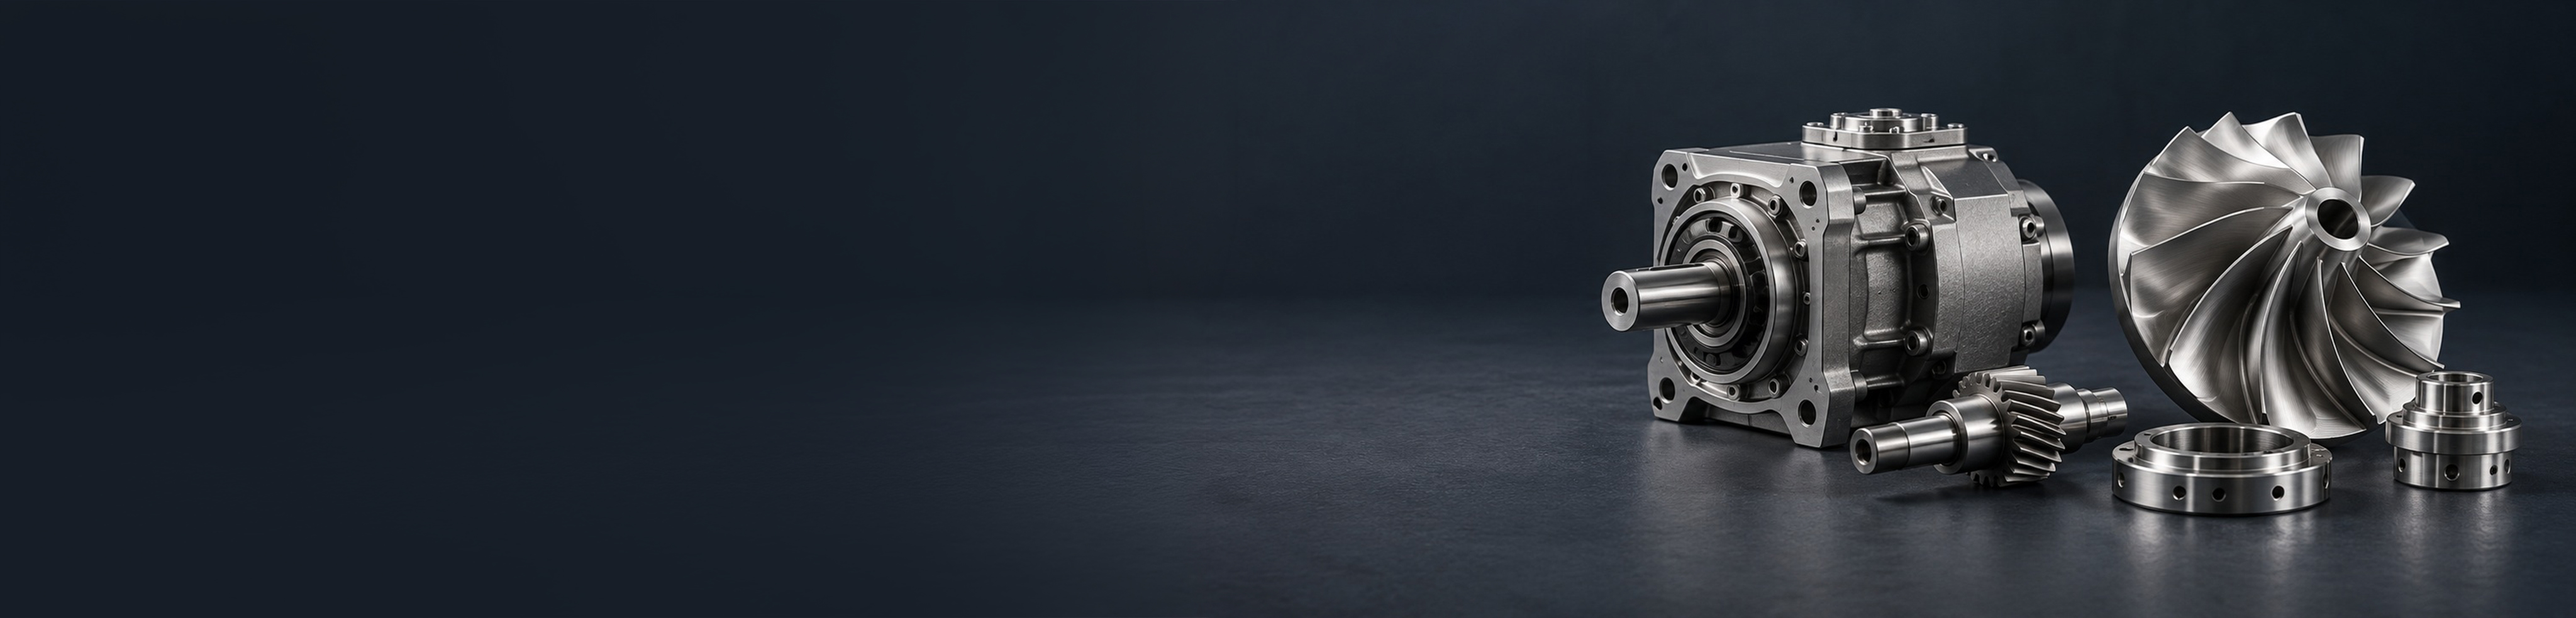
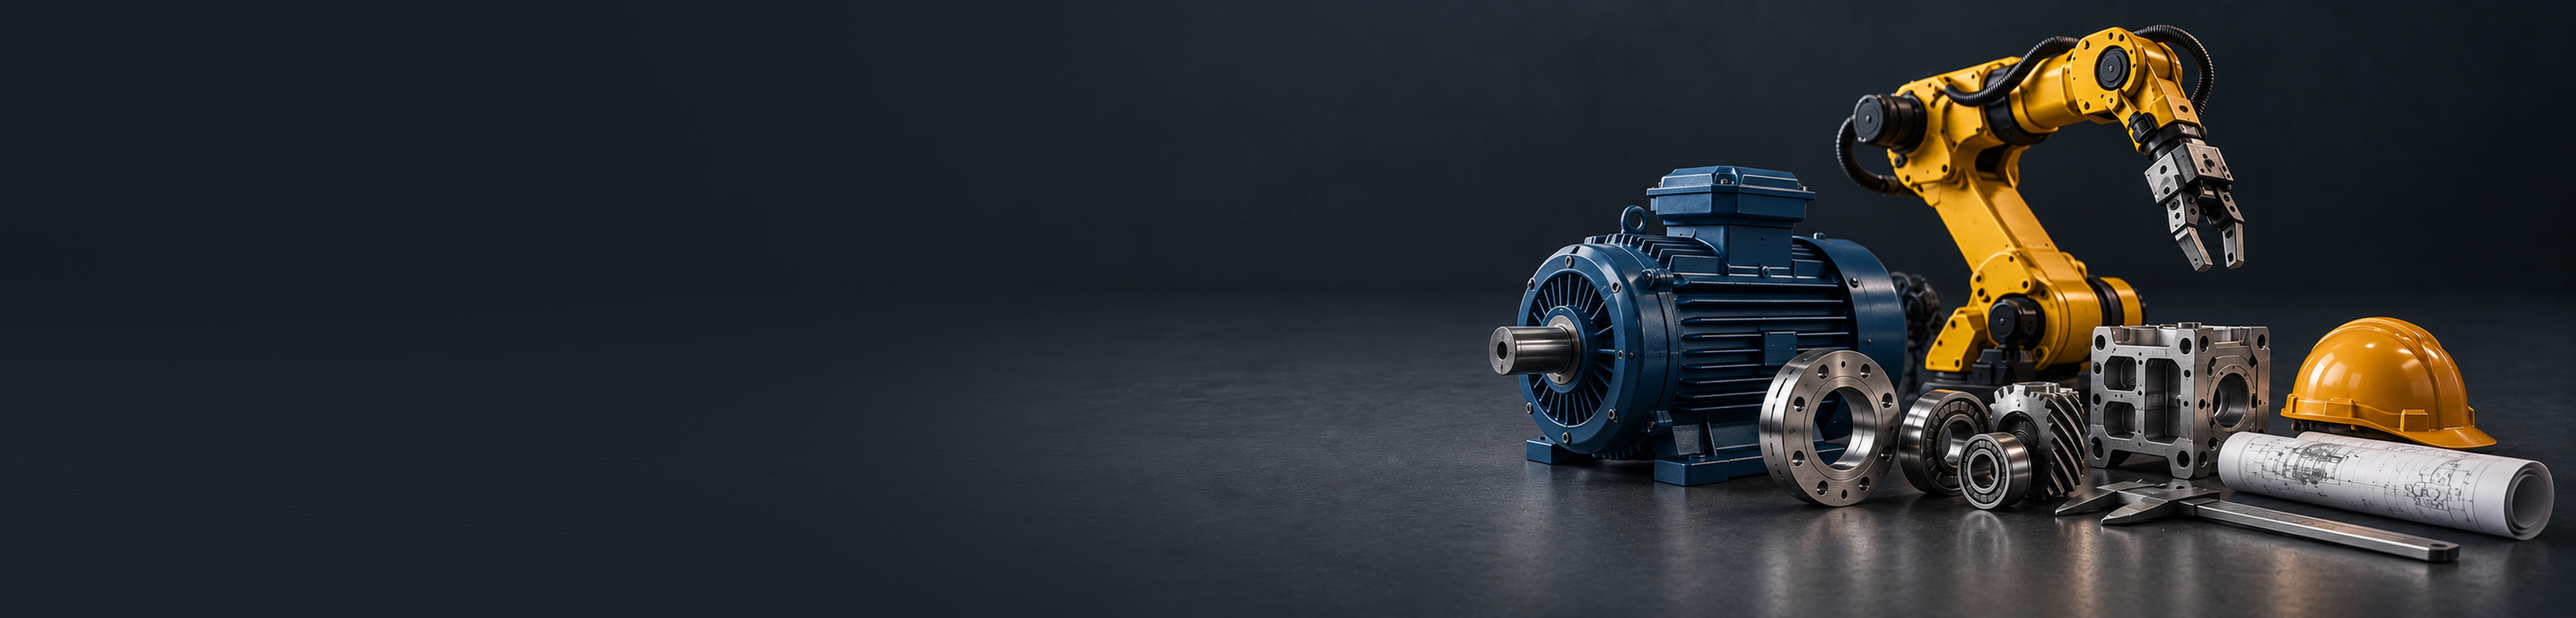
feat: refine navigation and product details UI

Changed region(s): [[0.5625, 0.0305, 1.0, 1.0]]

diff --git a/frontend/src/pages/Products/ProductDetailsPage.test.tsx b/frontend/src/pages/Products/ProductDetailsPage.test.tsx
@@ -17,7 +17,6 @@ import {
   testUser,
 } from '../../test/test-utils'
 import { useAuthStore } from '../../store/authStore'
-import { useToastStore } from '../../store/toastStore'
 import type { PublicProductDetail } from '../../types/product'
 import { ProductDetailsPage } from './ProductDetailsPage'
 import { Toaster } from '../../components/ui/Toaster'
@@ -270,7 +269,7 @@ describe('ProductDetailsPage', () => {
     expect(productsApi.getPublicProduct).toHaveBeenCalledWith('cyberpunk-drone-3d')
     expect(screen.getByText(/standard license/i)).toBeInTheDocument()
     expect(screen.getByText(/-20%/i)).toBeInTheDocument()
-    expect(screen.getByText(/futuristic sci-fi drone asset/i)).toBeInTheDocument()
+    expect(screen.queryByText(/futuristic sci-fi drone asset/i)).not.toBeInTheDocument()
     expect(screen.getByRole('heading', { name: /technical specs/i })).toBeInTheDocument()
     expect(screen.getByText(/^polygons$/i)).toBeInTheDocument()
     expect(screen.getByText('12,000')).toBeInTheDocument()
@@ -426,7 +425,7 @@ describe('ProductDetailsPage', () => {
       screen.getByRole('button', { name: /sign in to add .+ to wishlist/i }),
     ).toBeInTheDocument()
     expect(screen.getByRole('button', { name: /sign in to buy/i })).toBeInTheDocument()
-    expect(screen.getByRole('button', { name: /share link for/i })).toBeEnabled()
+    expect(screen.queryByRole('button', { name: /share link for/i })).not.toBeInTheDocument()
   })
 
   it('shows working add-to-cart and wishlist controls for authenticated users', async () => {
@@ -622,13 +621,7 @@ describe('ProductDetailsPage', () => {
     })
   })
 
-  it('copies the share link and excludes package storage paths from the document', async () => {
-    const writeText = vi.fn().mockResolvedValue(undefined)
-    Object.defineProperty(navigator, 'clipboard', {
-      configurable: true,
-      value: { writeText },
-    })
-
+  it('hides the share control and short summary and excludes package storage paths', async () => {
     renderProductDetails()
 
     await waitFor(() => {
@@ -637,13 +630,8 @@ describe('ProductDetailsPage', () => {
       ).toBeInTheDocument()
     })
 
-    await userEvent.click(screen.getByRole('button', { name: /share link for/i }))
-
-    await waitFor(() => {
-      expect(writeText).toHaveBeenCalled()
-    })
-    expect(writeText.mock.calls[0]?.[0]).toContain('/products/cyberpunk-drone-3d')
-    expect(useToastStore.getState().toasts).toHaveLength(0)
+    expect(screen.queryByRole('button', { name: /share link for/i })).not.toBeInTheDocument()
+    expect(screen.queryByText('Futuristic sci-fi drone asset')).not.toBeInTheDocument()
 
     expect(document.body.textContent).not.toMatch(/storage_path/i)
     expect(document.body.innerHTML).not.toContain('secret.zip')

diff --git a/frontend/src/components/Navbar.tsx b/frontend/src/components/Navbar.tsx
@@ -206,8 +206,12 @@ export function Navbar() {
     ? (pluginCategoriesQuery.data?.results ?? [])
     : (productCategoriesQuery.data?.results ?? [])
 
-  // Keep Explore/search menus compact: top-level categories only.
+  // Keep Explore/search menus compact: top-level categories only, excluding
+  // the internal demo category from customer-facing navigation.
   const exploreCategories = categories.filter((category) => {
+    if (category.slug === 'demo-assets' || category.name.trim().toLowerCase() === 'demo assets') {
+      return false
+    }
     if ('parent' in category) {
       return category.parent == null
     }
@@ -547,19 +551,39 @@ export function Navbar() {
               >
                 Home
               </Link>
-              <Link className="navbar__link" to="/3d-models">
+              <Link
+                className={`navbar__link${isModelsRoute ? ' navbar__link--active' : ''}`}
+                to="/3d-models"
+                aria-current={isModelsRoute ? 'page' : undefined}
+              >
                 3D Model
               </Link>
-              <Link className="navbar__link" to="/plugins">
+              <Link
+                className={`navbar__link${isPluginsRoute ? ' navbar__link--active' : ''}`}
+                to="/plugins"
+                aria-current={isPluginsRoute ? 'page' : undefined}
+              >
                 Plugins
               </Link>
-              <Link className="navbar__link" to="/custom-projects">
+              <Link
+                className={`navbar__link${currentPath.startsWith('/custom-projects') ? ' navbar__link--active' : ''}`}
+                to="/custom-projects"
+                aria-current={currentPath.startsWith('/custom-projects') ? 'page' : undefined}
+              >
                 Custom Projects
               </Link>
-              <Link className="navbar__link" to="/about">
+              <Link
+                className={`navbar__link${currentPath === '/about' ? ' navbar__link--active' : ''}`}
+                to="/about"
+                aria-current={currentPath === '/about' ? 'page' : undefined}
+              >
                 About
               </Link>
-              <Link className="navbar__link" to="/contact">
+              <Link
+                className={`navbar__link${currentPath === '/contact' ? ' navbar__link--active' : ''}`}
+                to="/contact"
+                aria-current={currentPath === '/contact' ? 'page' : undefined}
+              >
                 Contact
               </Link>
             </div>

diff --git a/frontend/src/components/Navbar.test.tsx b/frontend/src/components/Navbar.test.tsx
@@ -169,6 +169,30 @@ describe('Navbar', () => {
     )
   })
 
+  it('hides Demo Assets from the Explore categories menu', async () => {
+    const user = userEvent.setup()
+    vi.mocked(categoriesApi.listPublicCategories).mockResolvedValue({
+      count: 1,
+      next: null,
+      previous: null,
+      results: [{
+        id: 'demo-assets-id',
+        name: 'Demo Assets',
+        slug: 'demo-assets',
+        description: '',
+        image: '',
+        parent: null,
+        created_at: '2026-09-08T00:00:00Z',
+      }],
+    })
+
+    renderNavbar('/home')
+    await user.hover(screen.getByRole('button', { name: /^explore/i }))
+    const menu = await screen.findByRole('menu', { name: /explore categories/i })
+
+    expect(within(menu).queryByRole('menuitem', { name: /demo assets/i })).not.toBeInTheDocument()
+  })
+
   it('shows Sign in and Register when logged out', () => {
     renderNavbar('/about')
 
@@ -185,6 +209,28 @@ describe('Navbar', () => {
     expect(screen.getByRole('link', { name: /^plugins$/i })).toHaveAttribute('href', '/plugins')
     expect(screen.queryByRole('link', { name: /dashboard/i })).not.toBeInTheDocument()
     expect(screen.queryByRole('button', { name: /sign out/i })).not.toBeInTheDocument()
+  })
+
+  it.each([
+    ['/3d-models', /^3d model$/i],
+    ['/plugins', /^plugins$/i],
+    ['/custom-projects', /^custom projects$/i],
+    ['/about', /^about$/i],
+    ['/contact', /^contact$/i],
+  ])('marks the matching navbar link active on %s', (path, linkName) => {
+    renderNavbar(path as string)
+    const activeLink = screen.getByRole('link', { name: linkName as RegExp })
+
+    expect(activeLink).toHaveClass('navbar__link--active')
+    expect(activeLink).toHaveAttribute('aria-current', 'page')
+    expect(document.querySelectorAll('.navbar__primary-links .navbar__link--active')).toHaveLength(1)
+  })
+
+  it('keeps the Home navbar link black on the Home page', () => {
+    renderNavbar('/home')
+
+    expect(screen.getByRole('link', { name: /^home$/i })).not.toHaveClass('navbar__link--active')
+    expect(document.querySelectorAll('.navbar__primary-links .navbar__link--active')).toHaveLength(0)
   })
 
   it('shows user menu with Dashboard, Profile, and Sign out when logged in', async () => {

diff --git a/frontend/src/styles/navbar.css b/frontend/src/styles/navbar.css
@@ -129,7 +129,7 @@
   max-width: calc(100vw - (2 * var(--site-gutter)));
   padding: 0.75rem 0.85rem;
   border: 1px solid rgba(120, 149, 166, 0.22);
-  border-radius: 0.75rem;
+  border-radius: 0;
   background:
     radial-gradient(circle at 88% 88%, rgba(255, 255, 255, 0.94), transparent 24%),
     linear-gradient(135deg, #f4f9fc 0%, #edf4f8 58%, #f8fbfd 100%);
@@ -166,22 +166,23 @@
 
 .navbar__explore-item:hover,
 .navbar__explore-item:focus-visible {
-  background: #dff2fc;
-  color: var(--text-main);
+  background: transparent;
+  color: #63b8e6;
 }
 
 .navbar__explore-icon,
 .navbar__explore-image {
   display: block;
   flex: 0 0 auto;
-  width: 1.25rem;
-  height: 1.25rem;
-  color: #7297aa;
+  width: 0.9rem;
+  height: 0.9rem;
+  color: #7f8b92;
 }
 
 .navbar__explore-item:hover .navbar__explore-icon,
 .navbar__explore-item:focus-visible .navbar__explore-icon {
-  filter: saturate(1.18);
+  color: #63b8e6;
+  filter: none;
 }
 
 .navbar__explore-image {
@@ -202,49 +203,6 @@
   font-size: 1.2rem;
   font-weight: 400;
   line-height: 0.8;
-}
-
-.navbar__explore-icon--all,
-.navbar__explore-icon--architectural-3d-models,
-.navbar__explore-icon--character,
-.navbar__explore-icon--interactive-webar,
-.navbar__explore-icon--electronics {
-  color: #77a9c1;
-}
-
-.navbar__explore-icon--demo-assets,
-.navbar__explore-icon--assets-props {
-  color: #8a9e9b;
-}
-
-.navbar__explore-icon--food-drink,
-.navbar__explore-icon--industrial {
-  color: #c99b57;
-}
-
-.navbar__explore-icon--household,
-.navbar__explore-icon--cloth-items,
-.navbar__explore-icon--furniture,
-.navbar__explore-icon--products {
-  color: #c99397;
-}
-
-.navbar__explore-icon--lifestyle-visualisation,
-.navbar__explore-icon--plants-vegetation,
-.navbar__explore-icon--3d-printing {
-  color: #78aa86;
-}
-
-.navbar__explore-icon--toys {
-  color: #8e87b4;
-}
-
-.navbar__explore-icon--interior-3d-models {
-  color: #a79d81;
-}
-
-.navbar__explore-icon--lights {
-  color: #c3a044;
 }
 
 .navbar__explore-status {
@@ -423,6 +381,10 @@ button.navbar__link {
 .navbar__link:hover {
   color: var(--action-color);
   text-decoration: none;
+}
+
+.navbar__link--active {
+  color: var(--action-color);
 }
 
 .navbar__link--muted {

diff --git a/frontend/src/styles/about.css b/frontend/src/styles/about.css
@@ -57,8 +57,10 @@
   stroke-linejoin: round;
 }
 
-/* Hero — same banner height/aspect as 3D Models and Plugins */
+/* Compact About banner */
 .about-hero.site-hero-banner {
+  --site-hero-aspect: 5 / 1;
+  max-height: 18rem;
   background-color: var(--border);
   color: var(--text-main);
 }
@@ -80,7 +82,7 @@
   width: 100%;
   max-width: none;
   margin: 0;
-  padding: clamp(1.75rem, 3vw, 2.75rem) var(--site-gutter);
+  padding: clamp(1.25rem, 2.25vw, 2rem) var(--site-gutter);
   box-sizing: border-box;
   text-align: left;
 }
@@ -100,7 +102,7 @@
 .about-hero__copy h1 {
   margin: 0 0 0.85rem;
   max-width: min(100%, 22ch);
-  font-size: clamp(1.6rem, 2.5vw, 2.25rem);
+  font-size: clamp(1.35rem, 2vw, 1.8rem);
   line-height: 1.15;
   letter-spacing: -0.03em;
   font-weight: 700;
@@ -110,7 +112,7 @@
 .about-hero__lead {
   margin: 0;
   max-width: min(100%, 42rem);
-  font-size: clamp(0.92rem, 1.4vw, 1.02rem);
+  font-size: clamp(0.82rem, 1.1vw, 0.92rem);
   font-weight: 400;
   line-height: 1.55;
   color: rgba(17, 24, 39, 0.82);
@@ -144,18 +146,23 @@
 
 .about-hero__stat dt {
   margin: 0;
-  font-size: clamp(1rem, 1.6vw, 1.15rem);
+  font-size: clamp(0.9rem, 1.25vw, 1rem);
   font-weight: 800;
   color: var(--text-main);
 }
 
 .about-hero__stat dd {
   margin: 0.15rem 0 0;
-  font-size: 0.75rem;
+  font-size: 0.68rem;
   color: var(--text-secondary);
 }
 
 @media (max-width: 720px) {
+  .about-hero.site-hero-banner {
+    --site-hero-aspect: 2.4 / 1;
+    max-height: 10rem;
+  }
+
   .about-hero__stats {
     display: none;
   }
@@ -172,11 +179,11 @@
 
   .about-hero__copy h1 {
     margin: 0 0 0.35rem;
-    font-size: clamp(1.25rem, 5.5vw, 1.65rem);
+    font-size: clamp(1.1rem, 4.8vw, 1.4rem);
   }
 
   .about-hero__lead {
-    font-size: 0.82rem;
+    font-size: 0.75rem;
     line-height: 1.4;
     display: -webkit-box;
     -webkit-box-orient: vertical;

diff --git a/frontend/src/components/commerce/CommerceCtaGroup.tsx b/frontend/src/components/commerce/CommerceCtaGroup.tsx
@@ -18,6 +18,7 @@ export interface CommerceCtaGroupProps {
   variant?: CommerceCtaVariant
   showWishlist?: boolean
   showCheckoutNote?: boolean
+  showShare?: boolean
 }
 
 export function CommerceCtaGroup({
@@ -28,6 +29,7 @@ export function CommerceCtaGroup({
   variant = 'stacked',
   showWishlist = false,
   showCheckoutNote = false,
+  showShare = true,
 }: CommerceCtaGroupProps) {
   const location = useLocation()
   const isAuthenticated = useAuthStore((state) => state.isAuthenticated)
@@ -77,7 +79,7 @@ export function CommerceCtaGroup({
     </AuthEntryButton>
   )
 
-  const shareControl = isBuybox ? (
+  const shareControl = !showShare ? null : isBuybox ? (
     <button
       type="button"
       className="product-detail-cta__share-link"

diff --git a/frontend/src/pages/Products/ProductDetailsPage.tsx b/frontend/src/pages/Products/ProductDetailsPage.tsx
@@ -190,9 +190,6 @@ function ProductDetailContent({ product }: { product: PublicProductDetail }) {
               />
             </div>
 
-            {product.short_description.trim() ? (
-              <p className="product-detail-purchase__summary">{product.short_description}</p>
-            ) : null}
           </div>
         </aside>
       </div>

diff --git a/frontend/src/pages/Products/ProductCtaGroup.tsx b/frontend/src/pages/Products/ProductCtaGroup.tsx
@@ -14,6 +14,7 @@ export function ProductCtaGroup({ productId, productName, productSlug }: Product
       productName={productName}
       productSlug={productSlug}
       variant="buybox"
+      showShare={false}
     />
   )
 }
